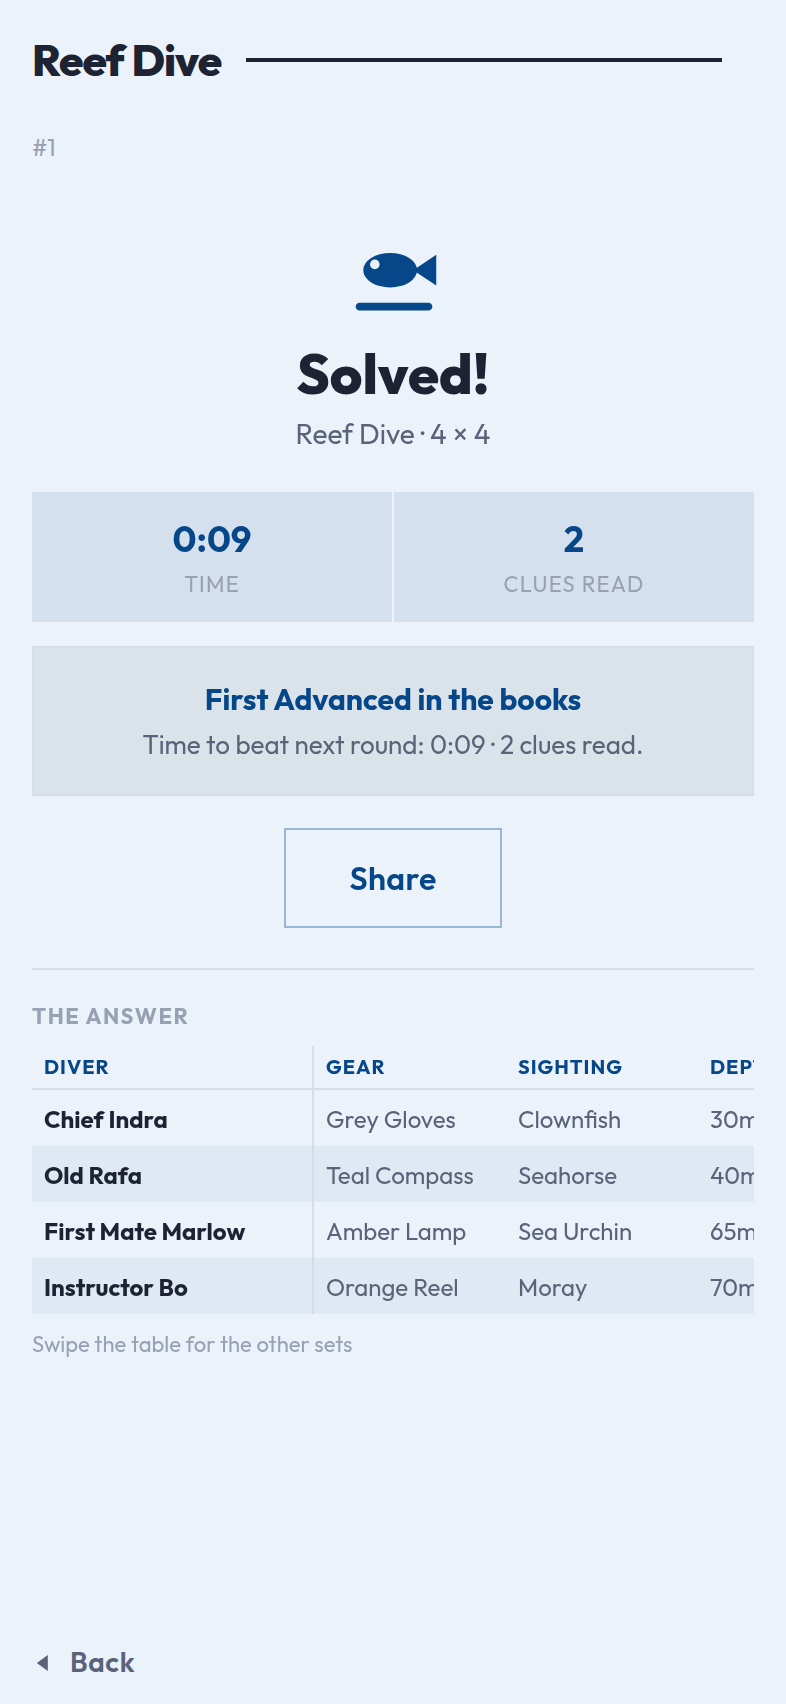
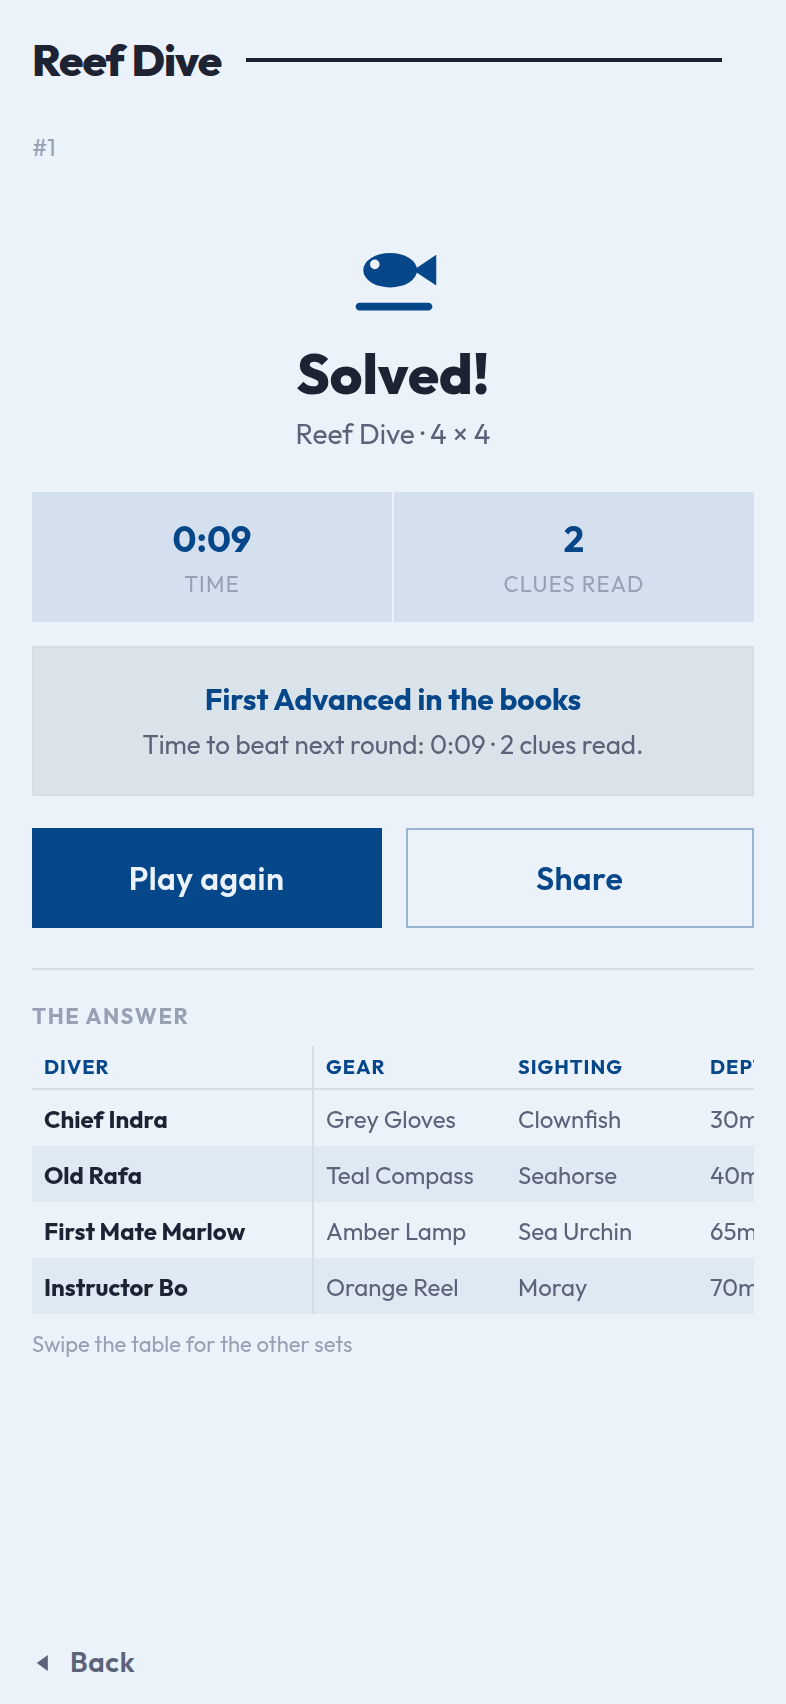
Play again on the finish, beside Share
Taking the burger off the finished board took Restart with it, and that
was the one thing behind it a finished board could still use: the puzzle
you have just solved is the one you might want to solve faster.

So it moves to the result, where it is wanted. Play again sits beside
Share, the same width, and puts the puzzle back the way it was found —
blank board, clock at zero, no clue read, and the note about how the last
run compared cleared with it. It asks nothing first: the game is already
in the history, so there is nothing here to throw away.

Share stays the quieter of the two, since it leaves the app to do its job.

Also fixes the README's account of the finish, which still described a
tab bar with Grid and Solved in it and a result with nothing to press.

Claude-Session: https://claude.ai/code/session_01RrDehsX5bvPAsFa5dYERaj

Changed region(s): [[0.0305, 0.4665, 0.5496, 0.5599], [0.6718, 0.4977, 0.7939, 0.5288]]

diff --git a/src/components/SolvedPanel.tsx b/src/components/SolvedPanel.tsx
@@ -23,8 +23,10 @@ interface Props {
   improvement: Improvement | null;
   /** A line the finish has to own up to — that it was not recorded. */
   notice?: string | null;
-  /** Hands the result to the share sheet; the one thing here to press. */
+  /** Hands the result to the share sheet. */
   onShare?: () => void;
+  /** The same puzzle again, from a blank board and a zeroed clock. */
+  onPlayAgain?: () => void;
 }
 
 /**
@@ -32,11 +34,18 @@ interface Props {
  * answer as a table. It fills the tab it is shown in rather than covering the
  * board, so the finished grid stays one tap away.
  *
- * It offers one thing to press, and that thing leaves the app: **Share** hands
- * the result to somebody else. Everything a player might want next *here* —
- * another puzzle, a different difficulty, their statistics — lives behind the
- * same `◀ Back` link as always, so the result is something to read rather than
- * a junction to get past.
+ * It offers two things to press, on one row. **Play again** puts the same
+ * puzzle back the way it was found — blank board, clock at zero, no clue read
+ * — which is the one thing a player wanting more of *this* puzzle can do, and
+ * the burger that used to hold it went with the board. **Share** hands the
+ * result to somebody else, and leaves the app to do it, so it is the quieter
+ * of the two. Everything else a player might want next — another puzzle, a
+ * different difficulty, their statistics — lives behind the same `◀ Back` link
+ * as always, so the result stays something to read rather than a junction to
+ * get past.
+ *
+ * A result read back out of the history has no board to put back, so it is
+ * given no `onPlayAgain` and shows Share on its own.
  */
 export function SolvedPanel({
   title,
@@ -46,6 +55,7 @@ export function SolvedPanel({
   improvement,
   notice,
   onShare,
+  onPlayAgain,
 }: Props) {
   const palette = useTheme();
   const styles = useStyles(makeStyles);
@@ -91,14 +101,26 @@ export function SolvedPanel({
 
       {notice ? <Text style={styles.notice}>{notice}</Text> : null}
 
-      {onShare ? (
-        <AppButton
-          label={t('solved.share')}
-          variant="secondary"
-          accent={palette.accent}
-          onPress={onShare}
-          style={styles.share}
-        />
+      {onShare || onPlayAgain ? (
+        <View style={styles.actions}>
+          {onPlayAgain ? (
+            <AppButton
+              label={t('solved.playAgain')}
+              accent={palette.accent}
+              onPress={onPlayAgain}
+              style={styles.action}
+            />
+          ) : null}
+          {onShare ? (
+            <AppButton
+              label={t('solved.share')}
+              variant="secondary"
+              accent={palette.accent}
+              onPress={onShare}
+              style={styles.action}
+            />
+          ) : null}
+        </View>
       ) : null}
 
       <View style={styles.answer}>
@@ -141,10 +163,20 @@ const makeStyles = (palette: Palette) =>
       alignItems: 'center',
       paddingBottom: space(4),
     },
-    share: {
+    actions: {
+      // The panel centres what it holds, so the row has to ask for the width
+      // before the two buttons in it can share it.
+      alignSelf: 'stretch',
+      flexDirection: 'row',
+      justifyContent: 'center',
       marginTop: space(4),
-      alignSelf: 'center',
-      paddingHorizontal: space(8),
+      gap: space(3),
+    },
+    action: {
+      // Both take the same share of the row, so neither reads as the one that
+      // was squeezed in beside the other.
+      flex: 1,
+      maxWidth: 190,
     },
     answer: {
       alignSelf: 'stretch',

diff --git a/src/screens/__tests__/screens.test.tsx b/src/screens/__tests__/screens.test.tsx
@@ -3,6 +3,7 @@ import React from 'react';
 import { Share, StyleSheet, View } from 'react-native';
 
 import { categoryPairs, isCorrectPair, setMark, type Marks } from '../../game/board';
+import type { Improvement } from '../../stats/summary';
 import { sizeById } from '../../data/sizes';
 import { dailySeed } from '../../game/library';
 import type { SavedGame } from '../../game/persistence';
@@ -587,6 +588,17 @@ describe('the board', () => {
   beforeEach(() => jest.useFakeTimers());
   afterEach(() => jest.useRealTimers());
 
+  /** What the app says about a first solve at a size, as the stats would put it. */
+  const firstTime: Improvement = {
+    kind: 'first',
+    headline: 'First one at this size',
+    detail: '',
+    previousBest: null,
+    averageBefore: null,
+    rank: null,
+    solvedBefore: 0,
+  };
+
   /** Every correct pair ticked, which is a board with nothing left to do. */
   function solvedMarks(): Marks {
     let marks: Marks = {};
@@ -856,18 +868,7 @@ describe('the board', () => {
         onExit={none}
         onSaveProgress={async () => true}
         onDiscardProgress={none}
-        onCompleted={async () => ({
-          improvement: {
-            kind: 'first',
-            headline: 'First one at this size',
-            detail: '',
-            previousBest: null,
-            averageBefore: null,
-            rank: null,
-            solvedBefore: 0,
-          },
-          recorded: true,
-        })}
+        onCompleted={async () => ({ improvement: firstTime, recorded: true })}
       />,
     );
     await act(async () => {
@@ -880,6 +881,46 @@ describe('the board', () => {
     expect(screen.queryByRole('button', { name: 'Menu' })).toBeNull();
     // What the puzzle was called stays, on the left margin the burger had.
     expect(header(puzzle.themeName)).toBeOnTheScreen();
+  });
+
+  it('puts the same puzzle back from the finish, and the burger with it', async () => {
+    stage(
+      <GameScreen
+        puzzle={puzzle}
+        autoEliminate
+        autoFacts
+        accent={DEFAULT_SETTINGS.accent}
+        onToggleAutoEliminate={none}
+        onToggleAutoFacts={none}
+        onChangeAccent={none}
+        restore={{ ...savedGame(puzzle), marks: solvedMarks(), seconds: 300 }}
+        onExit={none}
+        onSaveProgress={async () => true}
+        onDiscardProgress={none}
+        onCompleted={async () => ({ improvement: firstTime, recorded: true })}
+      />,
+    );
+    await act(async () => {
+      jest.advanceTimersByTime(0);
+    });
+    expect(screen.getByText('5:00')).toBeOnTheScreen();
+    expect(screen.getByText('First one at this size')).toBeOnTheScreen();
+
+    // Beside Share, and it needs no asking: the game is already in the
+    // history, so there is nothing here to throw away.
+    fireEvent.press(button('Play again'));
+    await act(async () => {
+      jest.advanceTimersByTime(0);
+    });
+
+    // The board is back, blank, with the clock at zero and no clue read — and
+    // the note about the run before it has gone with the result.
+    expect(screen.queryByText('Solved!')).toBeNull();
+    expect(screen.queryByText('First one at this size')).toBeNull();
+    expect(button('Menu')).toBeEnabled();
+    expect(button('Undo')).toBeDisabled();
+    layOut();
+    expect(screen.getAllByRole('button', { name: /: unknown$/ })).toHaveLength(6 * 16);
   });
 });
 

diff --git a/src/screens/GameScreen.tsx b/src/screens/GameScreen.tsx
@@ -502,6 +502,11 @@ export function GameScreen({
     setExtraClues([]);
     setLit(false);
     setClueOpen(false);
+    // How the last go compared belongs to the last go. Restart can be pressed
+    // from the finish now, and a board on its way back to blank carrying the
+    // note from the run before it would read as a note about this one.
+    setImprovement(null);
+    setRecorded(null);
     flash(t('game.status.restarted'));
   }, [flash]);
 
@@ -567,6 +572,7 @@ export function GameScreen({
               feedback.tap();
               void shareResult({ puzzle, seconds, cluesUsed: cluesSeen.size, daily });
             }}
+            onPlayAgain={restart}
           />
         ) : (
           <View style={styles.fill}>

diff --git a/src/i18n/strings.generated.ts b/src/i18n/strings.generated.ts
@@ -257,6 +257,7 @@ export const STRINGS = {
     answer: 'The answer',
     swipe: 'Swipe the table for the other sets',
     share: 'Share',
+    playAgain: 'Play again',
     notRecorded: 'This game could not be recorded — the device may be out of space.',
   },
   share: {
@@ -4370,6 +4371,7 @@ export type StringKey =
   | 'solved.answer'
   | 'solved.cluesRead'
   | 'solved.notRecorded'
+  | 'solved.playAgain'
   | 'solved.share'
   | 'solved.subtitle'
   | 'solved.swipe'

diff --git a/README.md b/README.md
@@ -189,7 +189,7 @@ pictures below are for.
 | <img src="docs/screenshots/04-daily.png" width="230" alt="Daily challenges"><br>**4. Daily** — today's four, one per difficulty. A finished one shows its time and opens the result instead of a board. | <img src="docs/screenshots/05-settings.png" width="230" alt="Settings screen"><br>**5. Settings** — seven names with a box or a slider against each, and nothing to read. | <img src="docs/screenshots/06-briefing.png" width="230" alt="The briefing a puzzle opens with"><br>**6. Briefing** — what went wrong and why anybody wants it sorted out. It opens with the puzzle and waits behind **Info** afterwards. |
 | <img src="docs/screenshots/07-board.png" width="230" alt="The board"><br>**7. Grid** — a 4 × 4 puzzle as a 3 × 3 staircase of six grids, sized to fit the screen. | <img src="docs/screenshots/08-menu.png" width="230" alt="Game menu"><br>**8. Puzzle settings** — behind the burger: the board pair and the colour, set the way the settings screen sets them, then starting this one over. | <img src="docs/screenshots/09-clue.png" width="230" alt="The clue window"><br>**9. Clue** — one clue at a time, in a window with the room to read it, under a line saying who is supposed to have said it. |
 | <img src="docs/screenshots/10-highlight.png" width="230" alt="A clue lit up on the grids"><br>**10. Highlight** — the button at the bottom right lights every row and column the clue talks about. | <img src="docs/screenshots/11-marked.png" width="230" alt="A part-marked board"><br>**11. Marked up** — a mark the player made is drawn heavily, one the board worked out for itself lightly. Same shape, same colour: the difference survives being colour-blind. | <img src="docs/screenshots/12-stuck.png" width="230" alt="A board that can no longer be solved"><br>**12. Out of reach** — asking for a new clue checks the board first, and stops with a window offering to rewind when the answer has been marked away. |
-| <img src="docs/screenshots/13-item-card.png" width="230" alt="The card behind an item's picture"><br>**13. Item card** — tap any picture on the board to meet it, and page through the rest of its set. | <img src="docs/screenshots/14-solved.png" width="230" alt="A finished game"><br>**14. Solved** — the finish takes the screen: time, clues read, how it compares, **Share**, the answer table. | <img src="docs/screenshots/15-statistics.png" width="230" alt="Statistics screen"><br>**15. Statistics** — totals, bests by difficulty and the trend of recent solve times. |
+| <img src="docs/screenshots/13-item-card.png" width="230" alt="The card behind an item's picture"><br>**13. Item card** — tap any picture on the board to meet it, and page through the rest of its set. | <img src="docs/screenshots/14-solved.png" width="230" alt="A finished game"><br>**14. Solved** — the finish takes the screen: time, clues read, how it compares, **Play again** and **Share**, the answer table. | <img src="docs/screenshots/15-statistics.png" width="230" alt="Statistics screen"><br>**15. Statistics** — totals, bests by difficulty and the trend of recent solve times. |
 | <img src="docs/screenshots/16-night.png" width="230" alt="Setup screen in night colours"><br>**16. Night** — the difficulties in night colours, with a game waiting behind **Continue**. | <img src="docs/screenshots/17-catalogue.png" width="230" alt="The numbered list zoomed out to groups of twenty-five"><br>**17. Zoomed out** — the numbered list two presses of the glass out: five rows of twenty-five puzzles, paged the same way, each opening to the pages inside it. | <img src="docs/screenshots/18-tutorial.png" width="230" alt="The how-to-play board part way through"><br>**18. How to play** — the third of the front door's words: three customers, three drinks, and four marks walked on a real board. |
 
 The theme differs from run to run because it is drawn at random, and the
@@ -367,9 +367,13 @@ rest is the app behaving normally.
    one line. The grid does not come back: a solved board takes no more marks,
    and the answer above it says everything the squares would. The burger goes
    with it: the menu behind it holds the two board settings and the way to
-   start this puzzle over, and a finished board has no use for any of the
-   three. What is left to press is **Share** and `◀ Back`, which leads to the
-   setup screen, where the next puzzle is chosen.
+   start this puzzle over, and a finished board has no use for the first two.
+   The third moves to the result, where it is wanted: **Play again**, beside
+   **Share** and the same width as it, puts the puzzle back the way it was
+   found — blank board, clock at zero, no clue read. It asks nothing first,
+   since the game is already in the history and there is nothing here to throw
+   away. `◀ Back` still leads to the setup screen, where a *different* puzzle
+   is chosen.
 9. **Puzzle settings**, behind the burger at the top left, holds everything that acts
    on the game rather than on a square: the two board settings and the colour,
    boxed and named exactly as the settings screen has them (they are the
@@ -720,17 +724,19 @@ written with the saved game, so a board picked back up can still be stepped
 back from and Rewind has somewhere to walk to; a mistake older than that is
 what the fallback is for.
 
-Winning adds a tab rather than covering the board. There is no tab bar during
-play — there is only the board to show — so the bar appears at the finish with
-**Grid** and **Solved** in it, `SolvedPanel` fills the body, and the win selects
-it. Everything the finish made pointless goes with it — the row of buttons is
-hidden — and the board becomes read-only, because a stray tap on a finished grid would undo
-the win, restart the clock and have the game counted a second time.
+Winning replaces the board with `SolvedPanel`. Everything the finish made
+pointless goes with the grid — the row of tools under it, the burger over it —
+and the grid itself goes rather than being left there read-only, since a stray
+tap on a finished board would undo the win, restart the clock and have the game
+counted a second time. The answer is on the panel as a table anyway, which says
+everything the squares would.
 
-The result offers nothing to press either. Another puzzle, a different
-difficulty and the statistics are all where they always are, behind `◀ Back`,
-so the panel is something to read rather than a junction to get past — and the
-app has one way out of a game rather than four.
+The result offers two things, on one row: **Play again**, which is `restart` —
+the same call the burger's menu makes, minus the confirmation, because a
+recorded game has nothing left to lose — and **Share**, which leaves the app.
+Anything else a player might want next — another puzzle, a different
+difficulty, the statistics — is where it always is, behind `◀ Back`, so the
+panel stays something to read rather than a junction to get past.
 
 ## The words
 
